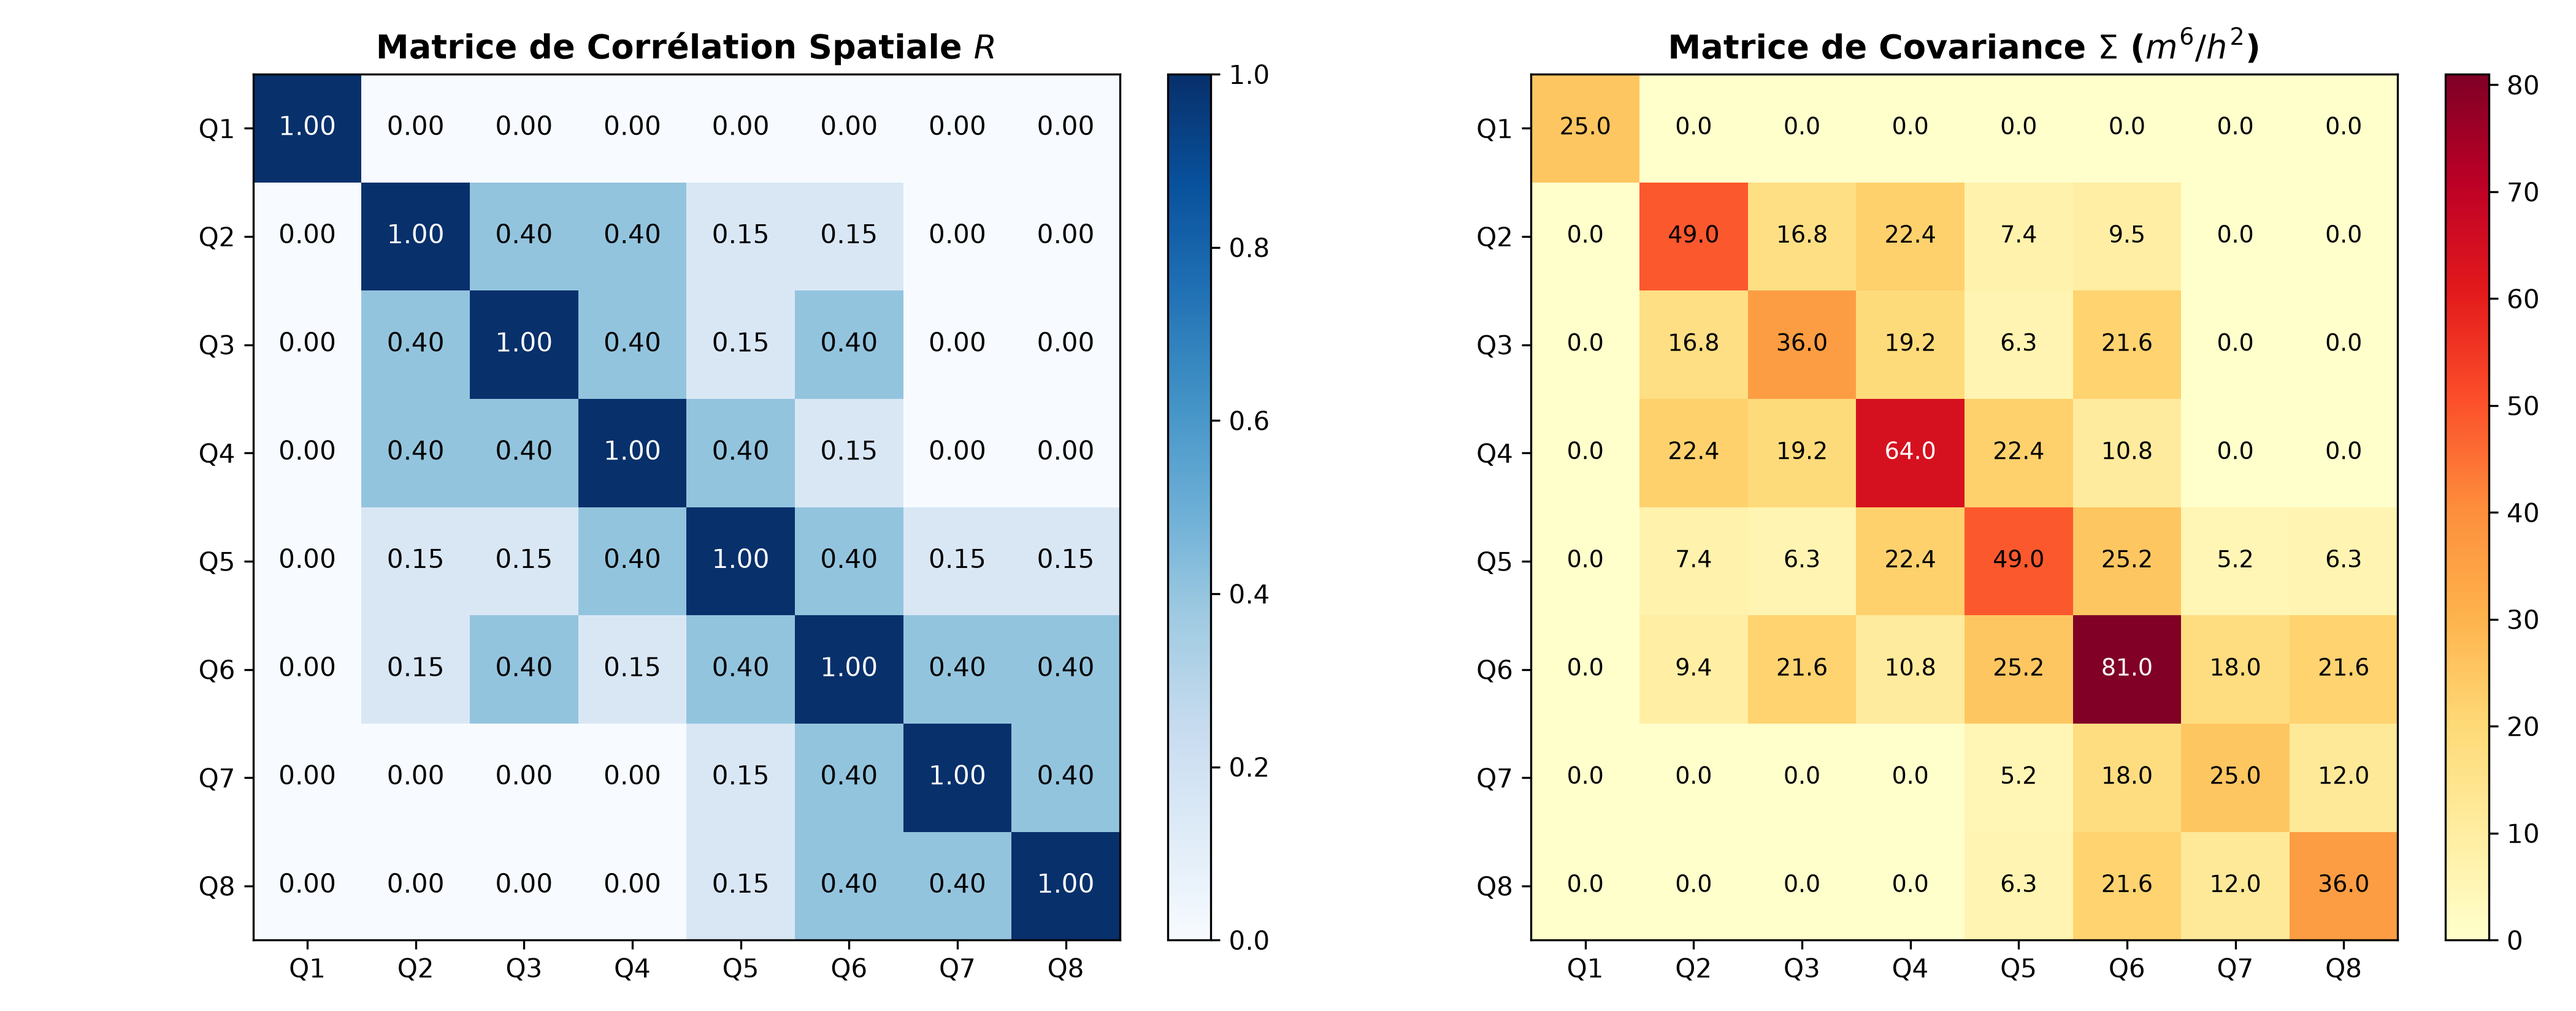
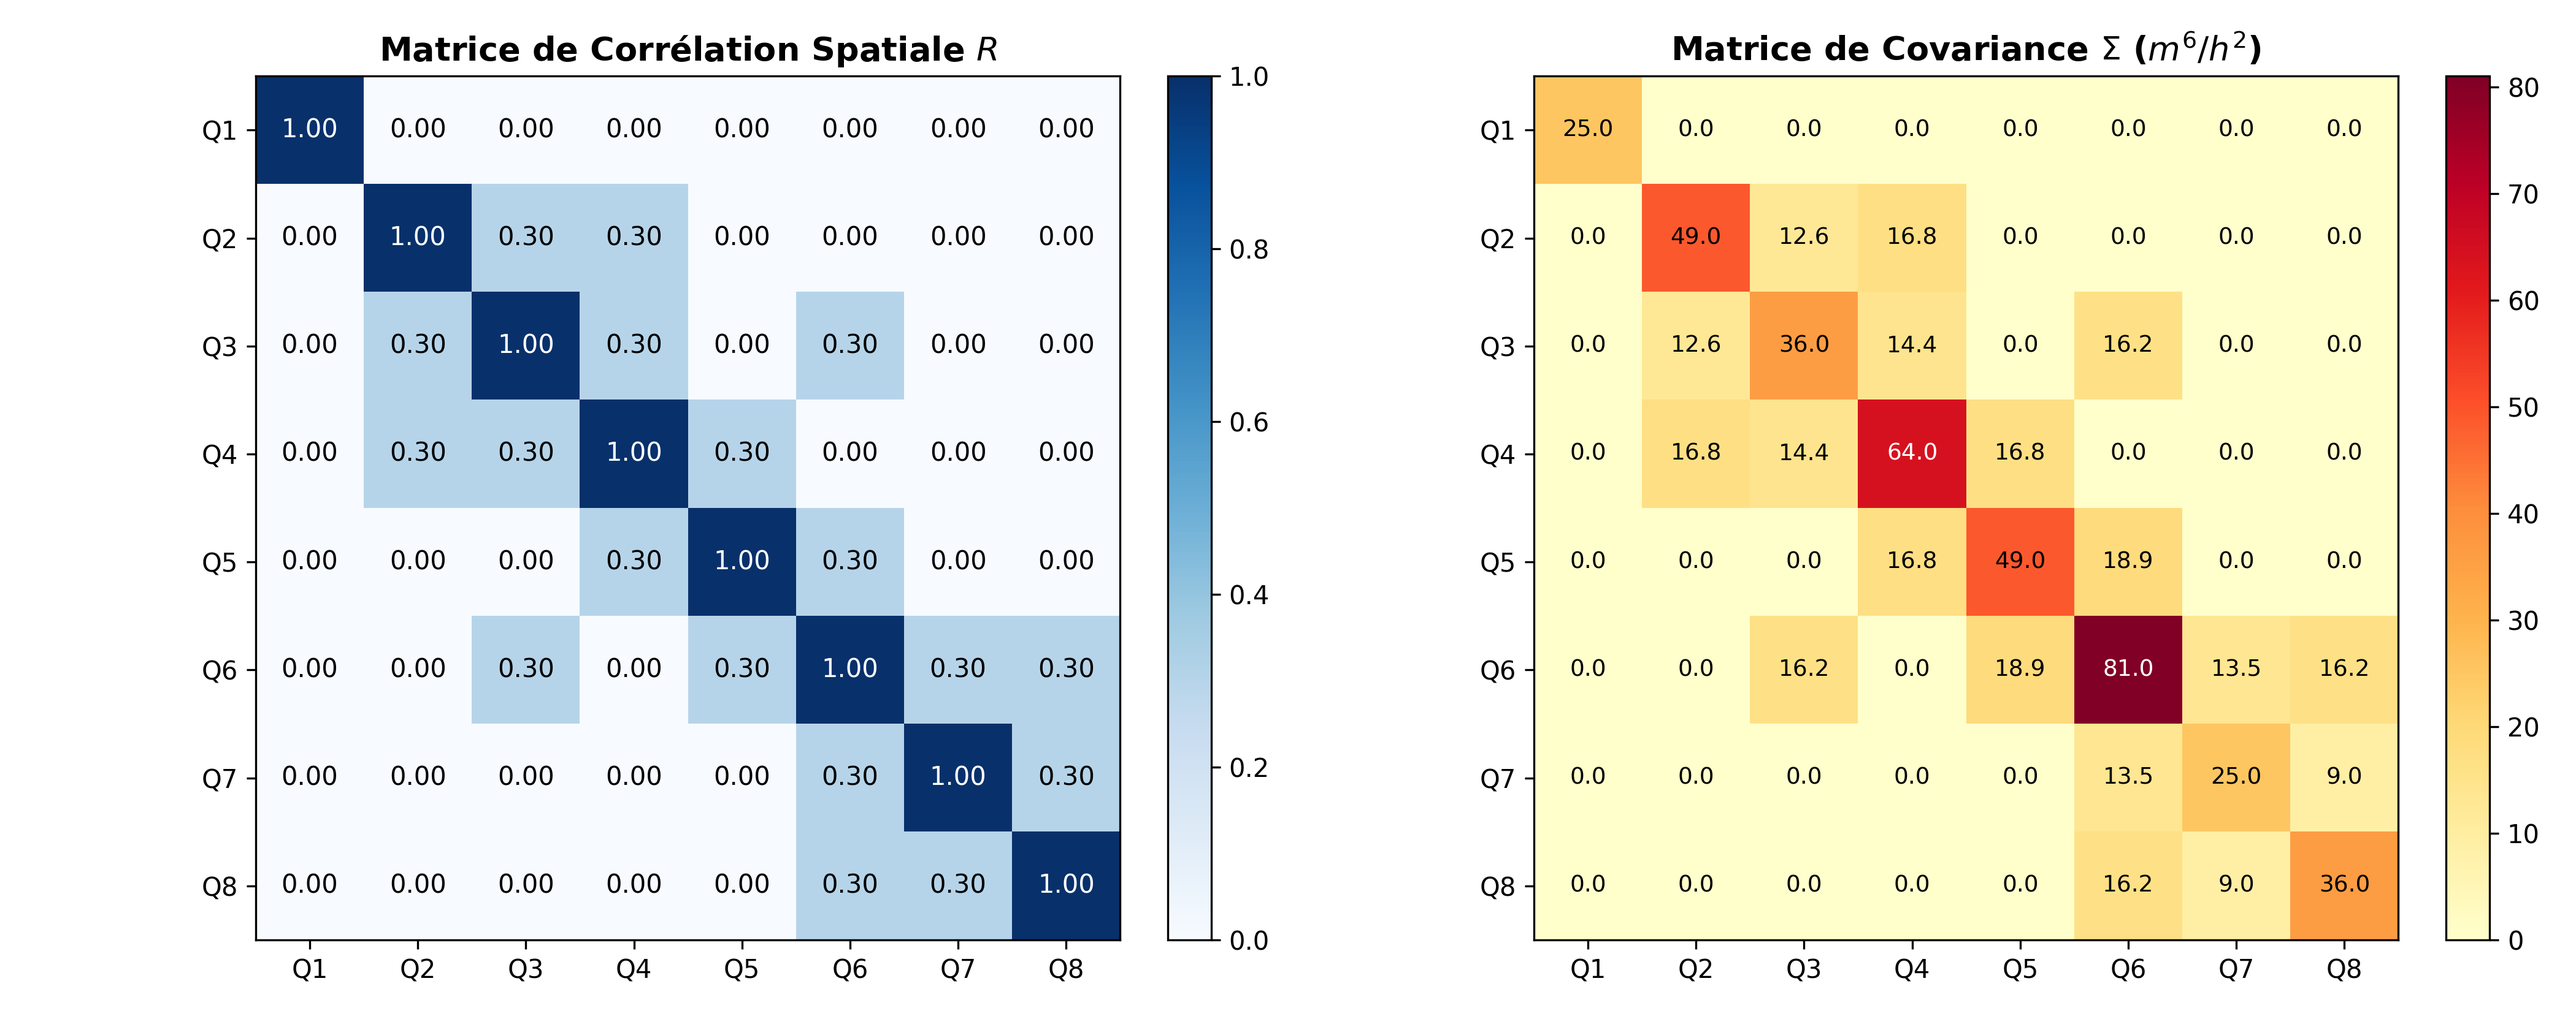
Repare le lancement de l'experience 6 et regenere ses figures
Le squelette d'origine definissait un main() qui levait NotImplementedError,
suivi de son bloc if __name__ == "__main__". Le code du Membre 3 ayant ete
colle en dessous, ce bloc s'executait en premier et le script plantait avant de
l'atteindre. Les quatre figures avaient donc ete produites en appelant
run_experiment_6 a la main.

Le script s'execute maintenant en ligne de commande, et expose un main() comme
les cinq autres scripts d'experience.

Regenere les figures dans la foulee. Celle des matrices de correlation
affichait encore 0,40 et 0,15, valeurs qui ne sont plus celles du modele depuis
que le code lit network_config.json.

Supprime results/figures/fig2_densites_probabilites_demande - Copie.png, un
doublon Windows que le script ne produit plus et dont le contenu reposait sur
les anciennes correlations. La figure porte desormais son nom sans suffixe.

diff --git a/experiments/exp6_at_risk_districts.py b/experiments/exp6_at_risk_districts.py
@@ -33,23 +33,20 @@ from __future__ import annotations
 
 import _bootstrap  # noqa: F401
 
-
-def main() -> None:
-    raise NotImplementedError("M3 avec M5, Expérience 6.")
-
-
-if __name__ == "__main__":
-    main()
-"""
-Expérience 6 : Analyse des Quartiers à Risque et Génération des Figures du Rapport
-Auteur : Membre 3 (Probabilités et Statistiques)
-Projet : Distribution d'eau équitable sous incertitude (Thème 3)
-
-Ce script (Étape 4) :
-1. Importe le modèle probabiliste validé (src.probability.demand_model).
-2. Réalise l'analyse de risque stochastique et topologique (Expérience 6).
-3. Génère et enregistre les 4 figures scientifiques dans results/figures/.
-"""
+# ---------------------------------------------------------------------------
+# Implémentation du Membre 3 (Probabilités et Statistiques).
+#
+# Ce script (Étape 4) :
+# 1. Importe le modèle probabiliste validé (src.probability.demand_model).
+# 2. Réalise l analyse de risque stochastique et topologique (Expérience 6).
+# 3. Génère et enregistre les 4 figures scientifiques dans results/figures/.
+#
+# Note d intégration : le squelette d origine définissait ici un main() qui
+# levait NotImplementedError, suivi de son bloc if __name__ == "__main__".
+# Comme le code utile est écrit plus bas, ce bloc s exécutait en premier et le
+# script plantait avant de l atteindre. Les quatre figures avaient donc été
+# produites en appelant run_experiment_6 à la main.
+# ---------------------------------------------------------------------------
 
 import os
 import sys
@@ -214,5 +211,10 @@ def run_experiment_6():
     print("=" * 95)
 
 
-if __name__ == "__main__":
+def main() -> None:
+    """Point d entrée, commun aux six scripts d expérience."""
     run_experiment_6()
+
+
+if __name__ == "__main__":
+    main()
